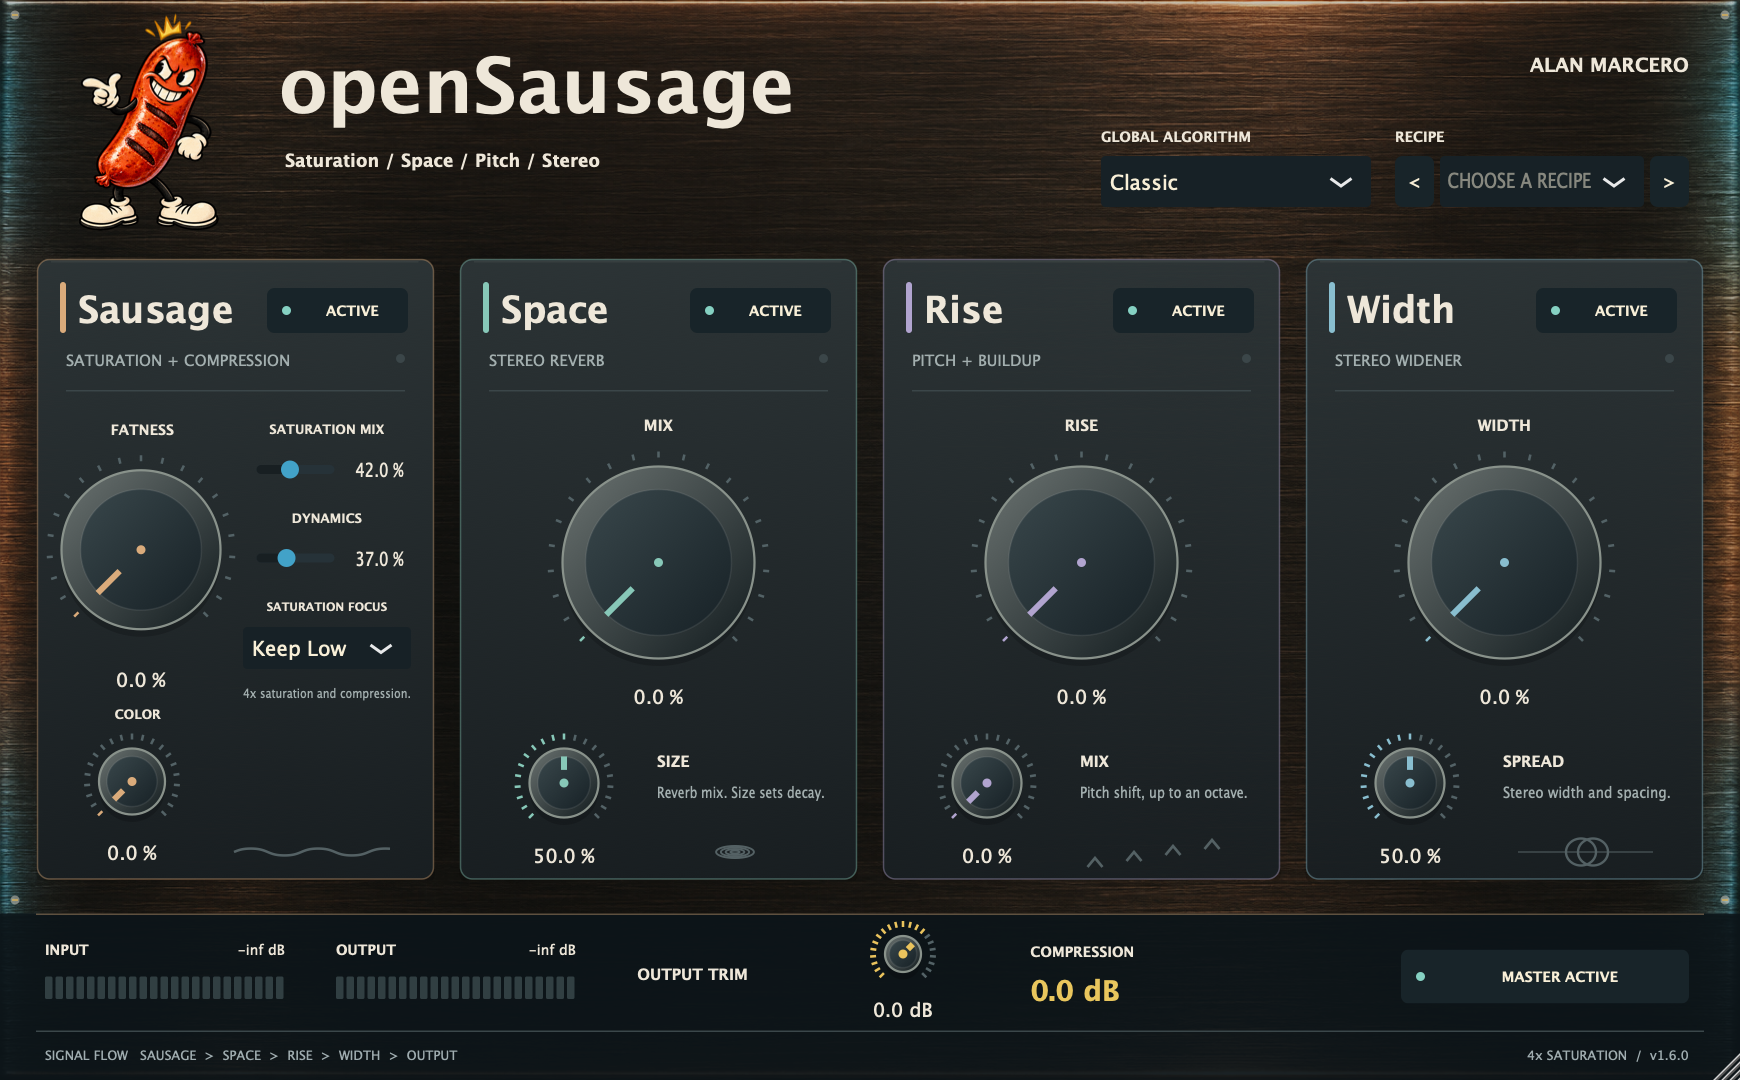
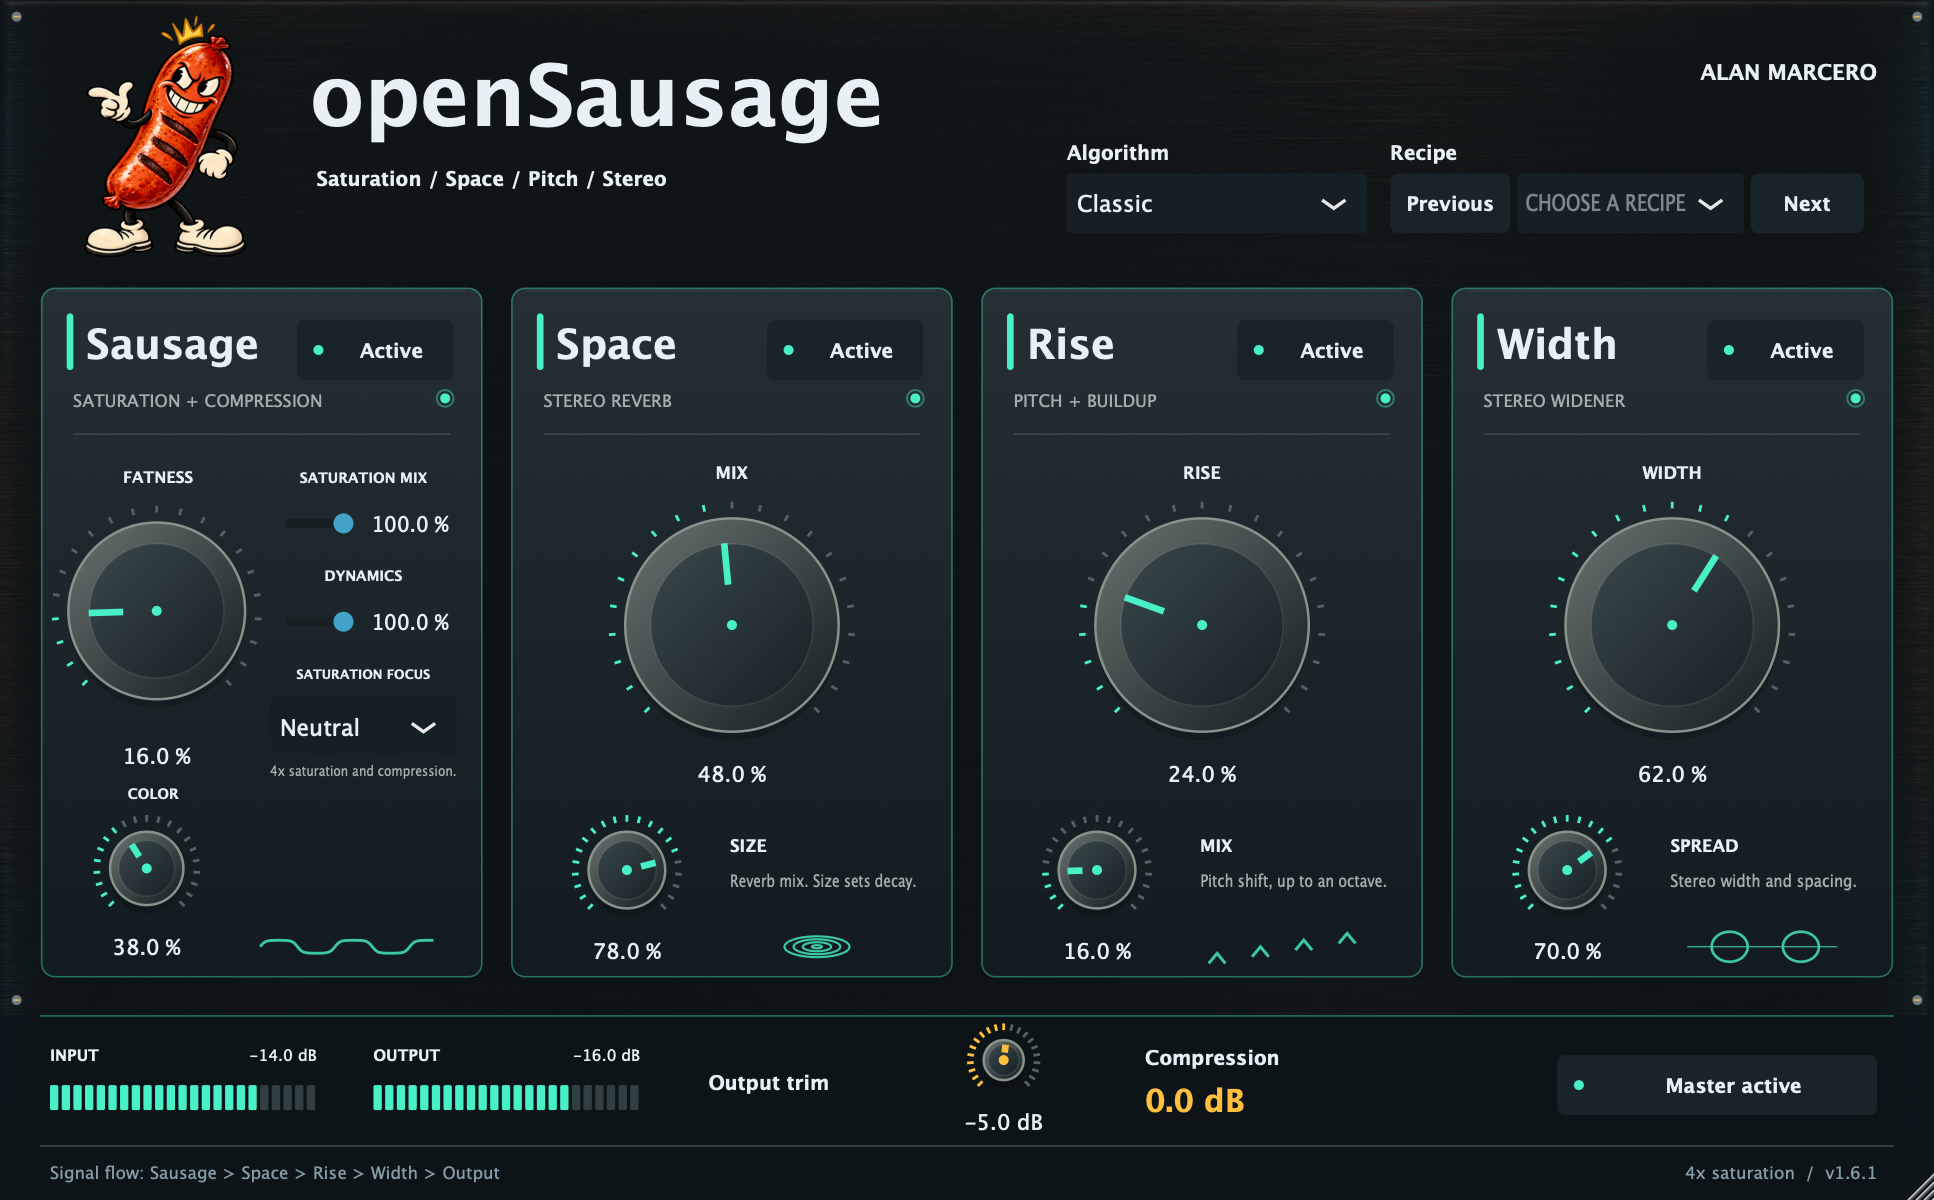
feat: release openSausage v1.6.1 - suite UI clarity

diff --git a/Source/Plugin/PluginEditor.cpp b/Source/Plugin/PluginEditor.cpp
@@ -2,7 +2,7 @@
 #include "BinaryData.h"
 
 namespace {
-const juce::Colour ink(0xffeee7d9), cream(0xffeee7d9), panel(0xf21d2528);
+const juce::Colour ink(0xffe6f0f5), cream(0xffe6f0f5), panel(0xf2152026);
 juce::Image trimAlpha(const juce::Image& image) {
     int left = image.getWidth(), top = image.getHeight(), right = 0, bottom = 0;
     for (int y = 0; y < image.getHeight(); ++y)
@@ -39,7 +39,7 @@ void meter(juce::Graphics& g, const juce::String& label, float peak, int x) {
     text(g, db <= -60.0f ? "-inf dB" : juce::String(db, 1) + " dB", {x + 76, 623, 84, 20}, 11.0f, cream, juce::Font::plain, juce::Justification::centredRight);
     for (int segment = 0; segment < 23; ++segment) {
         const bool lit = db > -60.0f + static_cast<float>(segment) * 60.0f / 23.0f;
-        const auto color = segment > 20 ? juce::Colour(0xffef7353) : juce::Colour(0xff83d4c3);
+        const auto color = segment > 20 ? juce::Colour(0xffffbe3b) : juce::Colour(0xff48f0c8);
         g.setColour(lit ? color : juce::Colour(0xff313f42));
         g.fillRoundedRectangle(static_cast<float>(x + segment * 7), 651.0f, 5.0f, 15.0f, 1.0f);
     }
@@ -66,7 +66,7 @@ ModulePanel::ModulePanel(juce::AudioProcessorValueTreeState& state, const juce::
         dial(dynamics, "satDynamics", color);
         for (auto* slider : {&saturationMix, &dynamics}) {
             slider->setSliderStyle(juce::Slider::LinearHorizontal);
-            slider->setTextBoxStyle(juce::Slider::TextBoxRight, false, 42, 20);
+            slider->setTextBoxStyle(juce::Slider::TextBoxRight, false, 56, 24);
             slider->setNumDecimalPlacesToDisplay(0);
         }
         saturationMix.setDoubleClickReturnValue(true, 100.0);
@@ -157,13 +157,13 @@ void ModulePanel::paint(juce::Graphics& g) {
     }
 }
 void ModulePanel::resized() {
-    bypass.setBounds(154, 20, 94, 30);
+    bypass.setBounds(154, 20, 94, 36);
     if (kind == 0) {
         primary.setBounds(4, 120, 132, 173);
         secondary.setBounds(10, 314, 108, 94);
-        saturationMix.setBounds(138, 124, 112, 34);
-        dynamics.setBounds(138, 183, 112, 34);
-        focus.setBounds(138, 246, 112, 28);
+        saturationMix.setBounds(138, 124, 112, 36);
+        dynamics.setBounds(138, 183, 112, 36);
+        focus.setBounds(138, 246, 112, 36);
     } else {
         primary.setBounds(44, 126, 178, 178);
         secondary.setBounds(20, 314, 100, 96);
@@ -172,17 +172,17 @@ void ModulePanel::resized() {
 SausageEditor::SausageEditor(SausageProcessor& owner)
     : AudioProcessorEditor(owner), ownerProcessor(owner),
       enamel(juce::ImageCache::getFromMemory(BinaryData::analogcyberfaceplate_png, BinaryData::analogcyberfaceplate_pngSize)),
-      sausagePanel(owner.parameters, "Sausage", "SATURATION + COMPRESSION", "fatness", "Fatness", "color", "Color", "sausageBypass", juce::Colour(0xffdaab7b), "4x saturation and compression."),
-      spacePanel(owner.parameters, "Space", "STEREO REVERB", "space", "Mix", "size", "Size", "spaceBypass", juce::Colour(0xff87c8b8), "Reverb mix. Size sets decay."),
-      risePanel(owner.parameters, "Rise", "PITCH + BUILDUP", "rise", "Rise", "riseMix", "Mix", "riseBypass", juce::Colour(0xffb1a4cf), "Pitch shift, up to an octave."),
-      widthPanel(owner.parameters, "Width", "STEREO WIDENER", "width", "Width", "spread", "Spread", "widthBypass", juce::Colour(0xff89becf), "Stereo width and spacing."),
+      sausagePanel(owner.parameters, "Sausage", "SATURATION + COMPRESSION", "fatness", "Fatness", "color", "Color", "sausageBypass", juce::Colour(0xff48f0c8), "4x saturation and compression."),
+      spacePanel(owner.parameters, "Space", "STEREO REVERB", "space", "Mix", "size", "Size", "spaceBypass", juce::Colour(0xff48f0c8), "Reverb mix. Size sets decay."),
+      risePanel(owner.parameters, "Rise", "PITCH + BUILDUP", "rise", "Rise", "riseMix", "Mix", "riseBypass", juce::Colour(0xff48f0c8), "Pitch shift, up to an octave."),
+      widthPanel(owner.parameters, "Width", "STEREO WIDENER", "width", "Width", "spread", "Spread", "widthBypass", juce::Colour(0xff48f0c8), "Stereo width and spacing."),
       outputAttachment(owner.parameters, "output", output), bypassAttachment(owner.parameters, "bypass", bypass) {
     setLookAndFeel(&look);
     const auto sheet = juce::ImageCache::getFromMemory(BinaryData::sausageexpressions_png, BinaryData::sausageexpressions_pngSize);
     for (int frame = 0; frame < 3; ++frame)
         faces[static_cast<std::size_t>(frame)] = trimAlpha(sheet.getClippedImage({frame * sheet.getWidth() / 3, 0, sheet.getWidth() / 3, sheet.getHeight()}));
     for (auto* p : {&sausagePanel, &spacePanel, &risePanel, &widthPanel}) addAndMakeVisible(p);
-    dial(output, "output", juce::Colour(0xffeac35d));
+    dial(output, "output", juce::Colour(0xffffbe3b));
     output.setTextValueSuffix(" dB"); output.setTooltip("Final output trim, after all four effects. Master bypass ignores trim.");
     output.setColour(juce::Slider::textBoxTextColourId, cream);
     bypass.setComponentID("bypass"); bypass.setName("Master bypass"); bypass.setClickingTogglesState(true);
@@ -224,9 +224,9 @@ SausageEditor::SausageEditor(SausageProcessor& owner)
     addAndMakeVisible(output); addAndMakeVisible(bypass); addAndMakeVisible(recipes); addAndMakeVisible(algorithms);
     addAndMakeVisible(prevRecipe); addAndMakeVisible(nextRecipe);
     setResizable(true, true);
-    setResizeLimits(870, 540, 1740, 1080);
+    setResizeLimits(1160, 720, 1740, 1080);
     getConstrainer()->setFixedAspectRatio(1160.0 / 720.0);
-    setSize(1160, 720);
+    setSize(1289, 800);
     startTimerHz(25);
 }
 SausageEditor::~SausageEditor() { stopTimer(); setLookAndFeel(nullptr); }
@@ -237,9 +237,9 @@ void SausageEditor::timerCallback() {
 }
 void SausageEditor::paint(juce::Graphics& g) {
     g.addTransform(juce::AffineTransform::scale(static_cast<float>(getWidth()) / 1160.0f));
-    g.fillAll(juce::Colour(0xff101719));
+    g.fillAll(juce::Colour(0xff0d1317));
     g.drawImage(enamel, juce::Rectangle<float>(0, 0, 1160, 720), juce::RectanglePlacement::stretchToFit);
-    g.setColour(juce::Colour(0xff101719).withAlpha(0.24f)); g.fillRect(0, 0, 1160, 609);
+    g.setColour(juce::Colour(0xff0d1317).withAlpha(0.88f)); g.fillRect(0, 0, 1160, 720);
     const bool sausageBypassed = ownerProcessor.parameters.getRawParameterValue("sausageBypass")->load() > 0.5f
                              || ownerProcessor.parameters.getRawParameterValue("bypass")->load() > 0.5f;
     const auto fat = sausageBypassed ? 0.0f : ownerProcessor.parameters.getRawParameterValue("fatness")->load() / 100.0f;
@@ -250,19 +250,19 @@ void SausageEditor::paint(juce::Graphics& g) {
     g.drawImage(faces[static_cast<std::size_t>(frame)], juce::Rectangle<float>(99.0f - bodyWidth * 0.5f, 9.0f + bounce, bodyWidth, 145.0f + fat * 4.0f), juce::RectanglePlacement::stretchToFit);
     text(g, "openSausage", {186, 23, 650, 66}, 60.0f, ink, juce::Font::bold);
     text(g, "Saturation / Space / Pitch / Stereo", {190, 94, 520, 25}, 14.0f, ink, juce::Font::bold);
-    text(g, "GLOBAL ALGORITHM", {734, 81, 180, 20}, 11.0f, ink, juce::Font::bold);
-    text(g, "RECIPE", {930, 81, 196, 20}, 11.0f, ink, juce::Font::bold);
+    text(g, "Algorithm", {640, 81, 180, 20}, 14.0f, ink, juce::Font::bold);
+    text(g, "Recipe", {834, 81, 284, 20}, 14.0f, ink, juce::Font::bold);
     text(g, "ALAN MARCERO", {930, 31, 196, 24}, 15.0f, ink, juce::Font::bold, juce::Justification::centredRight);
     g.setColour(juce::Colour(0xf00c1418)); g.fillRect(0, 609, 1160, 111);
-    g.setColour(juce::Colour(0xffdaab7b).withAlpha(0.4f)); g.drawHorizontalLine(609, 24, 1136);
+    g.setColour(juce::Colour(0xff48f0c8).withAlpha(0.4f)); g.drawHorizontalLine(609, 24, 1136);
     meter(g, "INPUT", ownerProcessor.inputPeak.load(std::memory_order_relaxed), 30);
     meter(g, "OUTPUT", ownerProcessor.outputPeak.load(std::memory_order_relaxed), 224);
-    text(g, "OUTPUT TRIM", {425, 638, 120, 22}, 12.0f, cream, juce::Font::bold);
-    text(g, "COMPRESSION", {687, 623, 174, 22}, 11.0f, cream, juce::Font::bold);
-    text(g, juce::String(ownerProcessor.gainReduction.load(std::memory_order_relaxed), 1) + " dB", {687, 646, 174, 28}, 22.0f, juce::Colour(0xffe9c65d), juce::Font::bold);
+    text(g, "Output trim", {425, 638, 120, 22}, 14.0f, cream, juce::Font::bold);
+    text(g, "Compression", {687, 623, 174, 22}, 14.0f, cream, juce::Font::bold);
+    text(g, juce::String(ownerProcessor.gainReduction.load(std::memory_order_relaxed), 1) + " dB", {687, 646, 174, 28}, 22.0f, juce::Colour(0xffffbe3b), juce::Font::bold);
     g.setColour(juce::Colour(0xff3b474a)); g.drawHorizontalLine(687, 24, 1136);
-    text(g, "SIGNAL FLOW   SAUSAGE  >  SPACE  >  RISE  >  WIDTH  >  OUTPUT", {30, 693, 760, 20}, 10.0f, juce::Colour(0xffa0adb0));
-    text(g, "4x SATURATION  /  v" JucePlugin_VersionString, {880, 693, 246, 20}, 10.0f, juce::Colour(0xffa0adb0), juce::Font::plain, juce::Justification::centredRight);
+    text(g, "Signal flow: Sausage > Space > Rise > Width > Output", {30, 693, 760, 20}, 12.0f, juce::Colour(0xff869ca8));
+    text(g, "4x saturation  /  v" JucePlugin_VersionString, {880, 693, 246, 20}, 12.0f, juce::Colour(0xff869ca8), juce::Font::plain, juce::Justification::centredRight);
     for (const auto point : {juce::Point<float>(10, 10), juce::Point<float>(1150, 10), juce::Point<float>(10, 600), juce::Point<float>(1150, 600)}) {
         g.setColour(ink.withAlpha(0.45f)); g.fillEllipse(point.x - 3, point.y - 3, 6, 6);
         g.setColour(juce::Colour(0xffd8b15a)); g.drawLine(point.x - 2, point.y, point.x + 2, point.y, 1);
@@ -272,10 +272,10 @@ void SausageEditor::resized() {
     sausagePanel.setBounds(24, 172, 266, 415); spacePanel.setBounds(306, 172, 266, 415);
     risePanel.setBounds(588, 172, 266, 415); widthPanel.setBounds(870, 172, 266, 415);
     output.setBounds(548, 611, 108, 74); bypass.setBounds(934, 633, 192, 36);
-    prevRecipe.setBounds(930, 104, 26, 34);
-    recipes.setBounds(960, 104, 136, 34);
-    nextRecipe.setBounds(1100, 104, 26, 34);
-    algorithms.setBounds(734, 104, 180, 34);
+    prevRecipe.setBounds(834, 104, 72, 36);
+    recipes.setBounds(910, 104, 136, 36);
+    nextRecipe.setBounds(1050, 104, 68, 36);
+    algorithms.setBounds(640, 104, 180, 36);
     const auto transform = juce::AffineTransform::scale(static_cast<float>(getWidth()) / 1160.0f);
     std::ranges::for_each(std::initializer_list<juce::Component*> {&sausagePanel, &spacePanel, &risePanel, &widthPanel, &output, &bypass, &recipes, &algorithms, &prevRecipe, &nextRecipe},
                           [transform](juce::Component* child) { child->setTransform(transform); });

diff --git a/Source/Plugin/SausageLookAndFeel.cpp b/Source/Plugin/SausageLookAndFeel.cpp
@@ -1,14 +1,14 @@
 #include "SausageLookAndFeel.h"
 
 SausageLookAndFeel::SausageLookAndFeel() {
-    setColour(juce::Slider::textBoxTextColourId, juce::Colour(0xfff8efd7));
-    setColour(juce::Slider::textBoxBackgroundColourId, juce::Colour(0xff172126));
+    setColour(juce::Slider::textBoxTextColourId, juce::Colour(0xffe6f0f5));
+    setColour(juce::Slider::textBoxBackgroundColourId, juce::Colour(0xff152026));
     setColour(juce::Slider::textBoxOutlineColourId, juce::Colours::transparentBlack);
-    setColour(juce::ComboBox::backgroundColourId, juce::Colour(0xff172126));
-    setColour(juce::ComboBox::textColourId, juce::Colour(0xfff8efd7));
+    setColour(juce::ComboBox::backgroundColourId, juce::Colour(0xff152026));
+    setColour(juce::ComboBox::textColourId, juce::Colour(0xffe6f0f5));
     setColour(juce::ComboBox::outlineColourId, juce::Colours::transparentBlack);
-    setColour(juce::PopupMenu::backgroundColourId, juce::Colour(0xff172126));
-    setColour(juce::PopupMenu::textColourId, juce::Colour(0xfff8efd7));
+    setColour(juce::PopupMenu::backgroundColourId, juce::Colour(0xff152026));
+    setColour(juce::PopupMenu::textColourId, juce::Colour(0xffe6f0f5));
 }
 void SausageLookAndFeel::drawRotarySlider(juce::Graphics& g, int x, int y, int width, int height, float position, float start, float end, juce::Slider& slider) {
     auto bounds = juce::Rectangle<float>(static_cast<float>(x), static_cast<float>(y), static_cast<float>(width), static_cast<float>(height)).reduced(13.0f);
@@ -41,7 +41,7 @@ void SausageLookAndFeel::drawRotarySlider(juce::Graphics& g, int x, int y, int w
     g.fillEllipse(center.x - 3.0f, center.y - 3.0f, 6.0f, 6.0f);
 }
 void SausageLookAndFeel::drawButtonBackground(juce::Graphics& g, juce::Button& button, const juce::Colour&, bool over, bool down) {
-    if (button.getButtonText() == "<" || button.getButtonText() == ">") {
+    if (button.getComponentID() == "prevRecipe" || button.getComponentID() == "nextRecipe") {
         g.setColour(juce::Colour(over || down ? 0xff2a3b40 : 0xff182429));
         g.fillRoundedRectangle(button.getLocalBounds().toFloat(), 5.0f);
         return;
@@ -50,18 +50,21 @@ void SausageLookAndFeel::drawButtonBackground(juce::Graphics& g, juce::Button& b
     g.setColour(bypassed ? juce::Colour(0xff30373a) : juce::Colour(0xff182429));
     if (over || down) g.setColour(bypassed ? juce::Colour(0xff43494b) : juce::Colour(0xff2a3b40));
     g.fillRoundedRectangle(button.getLocalBounds().toFloat(), 5.0f);
-    g.setColour(bypassed ? juce::Colour(0xffdd947b) : juce::Colour(0xff85d1c2));
+    g.setColour(bypassed ? juce::Colour(0xffffbe3b) : juce::Colour(0xff48f0c8));
     g.fillEllipse(10.0f, static_cast<float>(button.getHeight()) / 2.0f - 3.0f, 6.0f, 6.0f);
 }
 void SausageLookAndFeel::drawButtonText(juce::Graphics& g, juce::TextButton& button, bool, bool) {
-    if (button.getButtonText() == "<" || button.getButtonText() == ">") {
-        g.setColour(juce::Colour(0xfff8efd7));
-        g.setFont(juce::FontOptions(13.0f, juce::Font::bold));
+    if (button.getComponentID() == "prevRecipe" || button.getComponentID() == "nextRecipe") {
+        g.setColour(juce::Colour(0xffe6f0f5));
+        g.setFont(juce::FontOptions(14.0f, juce::Font::bold));
         g.drawText(button.getButtonText(), button.getLocalBounds(), juce::Justification::centred);
         return;
     }
-    g.setColour(button.getToggleState() ? juce::Colour(0xffbdc5c2) : juce::Colour(0xfff8efd7));
-    g.setFont(juce::FontOptions(11.0f, juce::Font::bold));
-    const auto label = button.getComponentID() == "bypass" ? (button.getToggleState() ? "MASTER BYPASSED" : "MASTER ACTIVE") : (button.getToggleState() ? "BYPASSED" : "ACTIVE");
+    g.setColour(button.getToggleState() ? juce::Colour(0xff869ca8) : juce::Colour(0xffe6f0f5));
+    g.setFont(juce::FontOptions(14.0f, juce::Font::bold));
+    const auto bypassed = button.getToggleState();
+    const auto moduleLabel = bypassed ? "Bypassed" : "Active";
+    const auto masterLabel = bypassed ? "Master bypassed" : "Master active";
+    const auto label = button.getComponentID() == "bypass" ? masterLabel : moduleLabel;
     g.drawText(label, button.getLocalBounds().withTrimmedLeft(20), juce::Justification::centred);
 }

diff --git a/Tools/EditorCapture.cpp b/Tools/EditorCapture.cpp
@@ -166,7 +166,7 @@ int main(int argc, char** argv) {
         for (const auto* id : {"sausageBypass", "spaceBypass", "riseBypass", "widthBypass"})
             dynamic_cast<juce::TextButton*>(find(*editor, id))->setToggleState(true, juce::sendNotificationSync);
         save(*editor, output, "openSausage-bypassed.png");
-        editor->setSize(870, 540);
+        editor->setSize(1160, 720);
         for (auto* child : editor->getChildren())
             if (dynamic_cast<juce::ResizableCornerComponent*>(child))
                 require(std::abs(child->getBoundsInParent().getRight() - editor->getWidth()) <= 1,

diff --git a/Source/Plugin/PluginEditor.h b/Source/Plugin/PluginEditor.h
@@ -46,7 +46,7 @@ private:
     juce::Slider output;
     juce::TextButton bypass;
     juce::ComboBox recipes, algorithms;
-    juce::TextButton prevRecipe{"<"}, nextRecipe{">"};
+    juce::TextButton prevRecipe{"Previous"}, nextRecipe{"Next"};
     int currentRecipe = -1;
     std::unique_ptr<juce::AudioProcessorValueTreeState::ComboBoxAttachment> algorithmAttachment;
     juce::AudioProcessorValueTreeState::SliderAttachment outputAttachment;

diff --git a/README.md b/README.md
@@ -7,7 +7,7 @@
 
 Saturation, reverb, rising pitch, and stereo width.
 
-![openSausage native editor](assets/native-ui.png)
+![openSausage editor with graphite surfaces, mint controls, and amber output (v1.6.1)](assets/native-ui.png)
 
 *Captured from the current compiled native editor. [Capture details and provenance](docs/SCREENSHOTS.md).*
 
